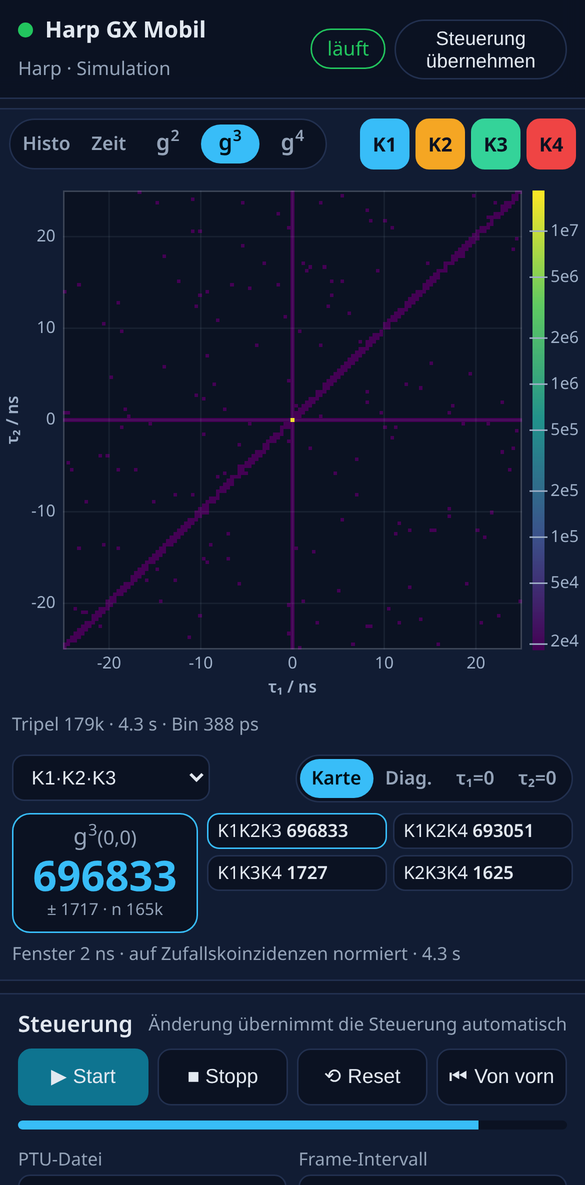
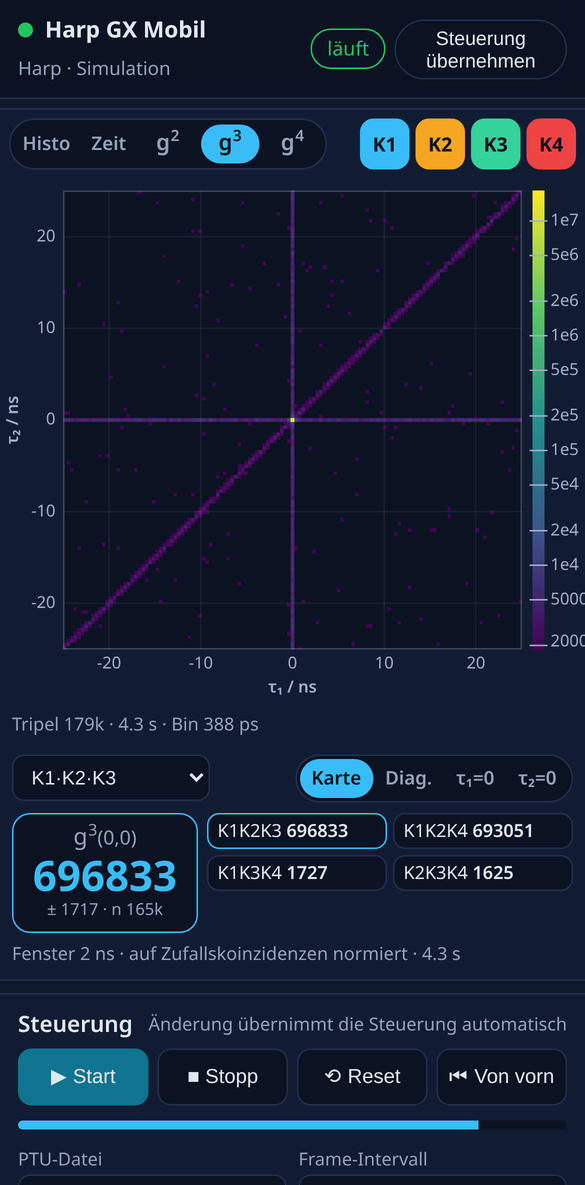
ExSE Harp GX Mobil 1.0.1: Farbskala der g³/g⁴-Karten bis 4 Dekaden (adaptiv)

diff --git a/web/app.js b/web/app.js
@@ -528,6 +528,8 @@ function viridis(t) {
   return VIRIDIS[i].map((c, k) => Math.round(c + (VIRIDIS[i + 1][k] - c) * f));
 }
 // Farbskala: logarithmische 1-2-5-Teilung über den sichtbaren Bereich [10^lo, 10^hi], immer mehrere Marken, 1 als Bezug
+// Farbskala der g³/g⁴-Karten: höchstens 4 Dekaden unter dem Maximum, sonst der Datenbereich (adaptiv)
+let MAP_DECADES = 4;   // let: für Vergleichs-Screenshots umstellbar
 function colorTicks(lo, hi, maxN) {
   const pick = (ms) => { const t = []; for (let e = Math.floor(lo) - 1; e <= Math.ceil(hi); e++) for (const m of ms) {
     const v = m * 10 ** e, l = Math.log10(v); if (l >= lo - 1e-9 && l <= hi + 1e-9) t.push(+v.toPrecision(3)); } return t; };
@@ -541,7 +543,7 @@ function colorTicks(lo, hi, maxN) {
   }
   return t;
 }
-function fmtTick(v) { return v >= 1e4 ? v.toExponential(0).replace("e+", "e") : String(+v.toPrecision(2)); }
+function fmtTick(v) { return v >= 1e4 || v < 0.01 ? v.toExponential(0).replace("e+", "e") : String(+v.toPrecision(2)); }   // kurz: 2e4, 5e-3 (passt rechts neben die Skala)
 function niceStep(r) { const p = 10 ** Math.floor(Math.log10(r)), m = r / p; return (m < 1.5 ? 1 : m < 3.5 ? 2 : m < 7.5 ? 5 : 10) * p; }
 function fmtTau(ns) { return Math.abs(ns) >= 1000 ? +(ns / 1000).toPrecision(3) + "µ" : String(+ns.toPrecision(3)); }
 function tauUnit(Rns) { return Rns >= 2000 ? ["µs", 1000] : ["ns", 1]; }
@@ -557,7 +559,7 @@ function drawHeat(vals, nb, Rps, xl, yl) {
   let mx = -Infinity, mn = Infinity;
   for (const v of vals) if (v > 0) { if (v > mx) mx = v; if (v < mn) mn = v; }
   if (!(mx > 0)) { mx = 10; mn = 0.1; }
-  const hi = Math.log10(mx), lo = Math.max(Math.log10(mn), hi - 3), span = Math.max(hi - lo, 1e-6);
+  const hi = Math.log10(mx), lo = Math.max(Math.log10(mn), hi - MAP_DECADES), span = Math.max(hi - lo, 1e-6);
   const img = new ImageData(nb, nb);
   for (let x = 0; x < nb; x++) for (let y = 0; y < nb; y++) {
     const v = vals[x * nb + y], p = ((nb - 1 - y) * nb + x) * 4;

diff --git a/web/sw.js b/web/sw.js
@@ -1,5 +1,5 @@
 // Minimaler Service Worker: statische Dateien offline verfügbar (App-Shell); Live-Daten nie gecacht.
-const CACHE = "exse-harp-gx-mobil-1.0.0-r1";   // Version + Revision; bei jeder Web-Änderung erhöhen
+const CACHE = "exse-harp-gx-mobil-1.0.1-r1";   // Version + Revision; bei jeder Web-Änderung erhöhen
 const ASSETS = ["/", "/static/style.css", "/static/app.js", "/static/vendor/uPlot.iife.min.js",
   "/static/vendor/uPlot.min.css", "/static/icon.svg", "/manifest.webmanifest"];
 self.addEventListener("install", (e) => e.waitUntil(caches.open(CACHE).then((c) => c.addAll(ASSETS))));

diff --git a/tests/test_web_ticks.py b/tests/test_web_ticks.py
@@ -105,3 +105,27 @@ def test_view_order():
     btn = html[html.index('id="viewBtn"'):html.index("</button>", html.index('id="viewBtn"'))]
     assert re.findall(r'data-v="(\w+)"', btn) == ["hist", "trace", "corr", "g3", "g4"]
     assert 'const VIEWS = ["hist", "trace", "corr", "g3", "g4"];' in APP.read_text(encoding="utf-8")
+
+
+def test_map_colour_range_four_decades():
+    """Farbskala: höchstens 4 Dekaden unter dem Maximum, sonst Datenbereich (adaptiv)."""
+    src = APP.read_text(encoding="utf-8")
+    assert re.search(r"MAP_DECADES = 4;", src)
+    assert "lo = Math.max(Math.log10(mn), hi - MAP_DECADES)" in src
+    t = _ticks([[3.27, 7.27, 15]])[0]                       # Tripel-Karte: 1,9e3 … 1,9e7
+    assert min(t) <= 5000 and max(t) >= 1e7 and len(t) >= 4
+    t = _ticks([[-3, 0.7, 15]])[0]                           # thermisch gepulst: 0,001 … 5, mit 1
+    assert 1 in t and min(t) <= 0.002
+
+
+def test_tick_labels_short():
+    node = shutil.which("node")
+    if not node:
+        pytest.skip("Node nicht installiert")
+    src = APP.read_text(encoding="utf-8")
+    fn = re.search(r"function fmtTick\(v\) \{.*?\}", src).group(0)
+    out = subprocess.run([node, "-e", fn + "console.log(JSON.stringify([0.001,0.005,0.01,0.5,1,5000,2e4,1e7].map(fmtTick)))"],
+                         capture_output=True, text=True, timeout=30)
+    labels = json.loads(out.stdout)
+    assert labels == ["1e-3", "5e-3", "0.01", "0.5", "1", "5000", "2e4", "1e7"]
+    assert max(map(len, labels)) <= 4

diff --git a/tests/test_server.py b/tests/test_server.py
@@ -114,7 +114,7 @@ def test_version_single_source(tmp_path):
     from harp.server import create_app as _ca
     from harp.config import Config as _C
     from fastapi.testclient import TestClient as _TC
-    assert harp.__version__ == "1.0.0"
+    assert harp.__version__ == "1.0.1"
     with _TC(_ca(_C(data_dir=tmp_path, log_dir=tmp_path / "logs"))) as c:
         r = c.get("/api/health").json()
     assert r == {"ok": True, "name": "ExSE Harp GX Mobil", "version": harp.__version__}

diff --git a/harp/__init__.py b/harp/__init__.py
@@ -1,2 +1,2 @@
 """ExSE Harp GX Mobil – einzige Versionsquelle ist __version__ (auch /api/health, Status). – Live-Histogramme und g²/g³/g⁴ einer (simulierten) PicoQuant Harp im Browser (z. B. HydraHarp 500, MultiHarp, PicoHarp 330, TimeHarp 260)."""
-__version__ = "1.0.0"
+__version__ = "1.0.1"

diff --git a/CHANGELOG.md b/CHANGELOG.md
@@ -1,5 +1,19 @@
 # Änderungsprotokoll – ExSE Harp GX Mobil
 
+## 1.0.1 – 16.10.2026
+
+- g³/g⁴-Karten: Die Farbskala reicht jetzt bis 4 Dekaden unter das Maximum (vorher 3).
+  - Ist der Datenbereich kleiner, gilt weiter der Datenbereich (adaptiv: min(4 Dekaden, Datenbereich)).
+  - Schwächere Strukturen werden sichtbar, z. B. die g³-Linien (≈ 4·10³ je Bin) neben dem Tripel-Peak (≈ 2·10⁷).
+  - Die 1-2-5-Teilung bleibt, ebenso die hervorgehobene 1.
+- Vergleich am gleichen Datenstand (3 und 4 Dekaden), Ansichten g³-Karte und g⁴-Schnitt:
+  - Laser, thermisch cw und alle g⁴-Schnitte: unverändert, weil ihr Datenbereich kleiner als 3 Dekaden ist.
+  - Thermisch gepulst g³: zusätzlich die Dekade 10⁻³ (seltene Nebenstrukturen), sonst gleich.
+  - Tripel und Paare: Linien deutlich sichtbarer.
+- Skalenbeschriftung kurz gehalten: Werte unter 0,01 als „5e-3“. „0.005“ wurde am rechten Rand abgeschnitten.
+- README: g³-Screenshot der Tripel-Datei neu.
+- Service-Worker-Cache `exse-harp-gx-mobil-1.0.1-r1`. Daten-Zips unverändert (Inhalt wie 1.0.0).
+
 ## 1.0.0 – 16.10.2026
 
 Erste veröffentlichte Version von **ExSE Harp GX Mobil**. Sie fasst die Entwicklungsstände 0.1.0 bis 0.2.7 zusammen;
